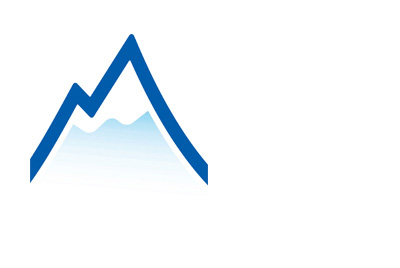
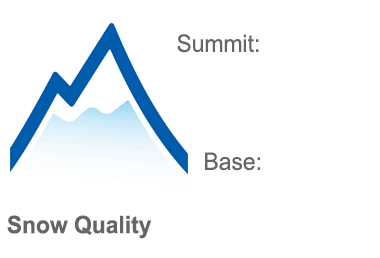
Got mountain diagram showing

Changed region(s): [[0.0289, 0.093, 0.6947, 0.6822], [0.0, 0.8372, 0.4053, 0.9302], [0.4632, 0.124, 0.6947, 0.2171]]

diff --git a/public/stylesheets/search2.css b/public/stylesheets/search2.css
@@ -237,7 +237,6 @@ span {
 }
 
 #srei-conditions {
-   background-color: yellow;
    width: 100%;
    position: relative;
 }
@@ -259,6 +258,26 @@ span {
    background-size: contain;
    background-repeat:no-repeat;
    display: inline-block;
+   text-align: right;
+   padding-right:15px; 
+}
+
+#srei-summit-temp {
+   margin-top: 5px;
+   font-size: 1.5em;
+   color: #333333;
+}
+
+#srei-base-temp {
+   margin-top: 30px;
+   font-size: 1.5em;
+   color: #333333;
+}
+
+#srei-snow-quality {
+   margin-top: 12px;
+   font-size: 1em;
+   color: #333333;
 }
 
 #srei-snowfall-box {
